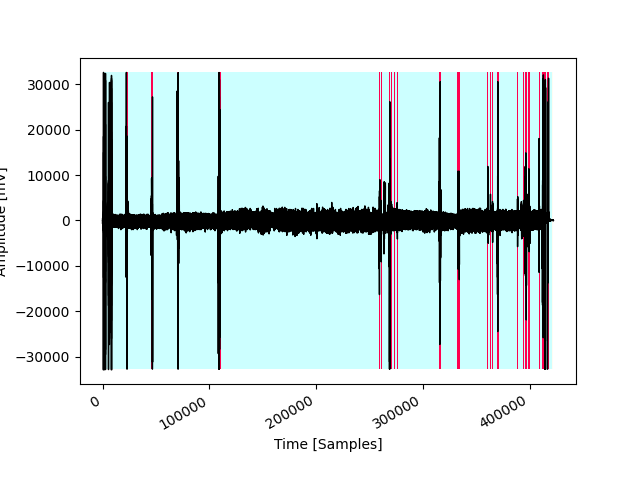
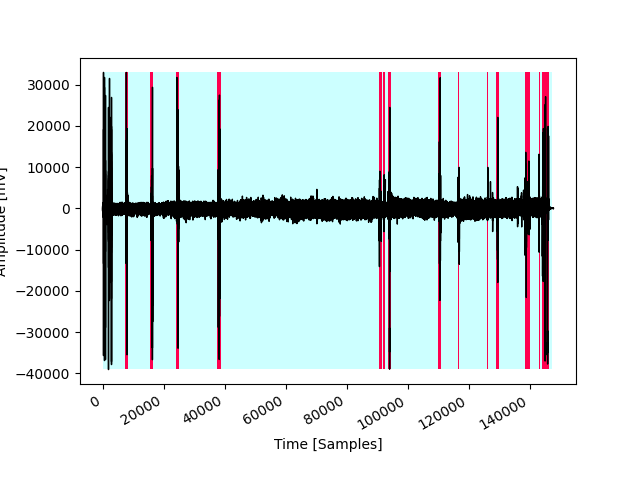
calculating number of windows

diff --git a/src/main.py b/src/main.py
@@ -23,8 +23,8 @@ from detect_peaks import detect_peaks
 
 print('\nstart processing ...')
 
-file = '../data/BCG/fixed_bcg.csv'
-reference_rr_file = '../data/BCG/Reference/RR/02_20231103_RR.csv'
+file = 'data/BCG/fixed_bcg.csv'
+reference_rr_file = 'data/RR/02_20231103_RR.csv'
 
 if file.endswith(".csv"):
     fileName = os.path.join(file)
@@ -34,11 +34,11 @@ if file.endswith(".csv"):
         print("\U0001F4C5 BCG Start:", pd.to_datetime(utc_time.min(), unit='ms'))
         print("\U0001F4C5 BCG End  :", pd.to_datetime(utc_time.max(), unit='ms'))
         data_stream = rawData["BCG"].values
-        fs = int(rawData["fs"].iloc[0])
+        fs = 50
         print("✅ Loaded samples:", len(data_stream))
         print("✅ Sampling frequency (Hz):", fs)
 
-        # Load ECG-derived reference HR
+        # Load ECG-declived reference HR
         rr_data = pd.read_csv(reference_rr_file)
         rr_data['Timestamp'] = pd.to_datetime(rr_data['Timestamp'])
 
@@ -53,10 +53,18 @@ if file.endswith(".csv"):
         mask_bcg = (utc_time >= start_time) & (utc_time <= end_time)
         mask_rr = (rr_data['Timestamp'] >= start_time) & (rr_data['Timestamp'] <= end_time)
 
+
         synced_bcg = data_stream[mask_bcg]
         synced_utc = utc_time[mask_bcg]
         synced_rr = rr_data.loc[mask_rr]
         reference_hr = synced_rr['Heart Rate'].replace(0, np.nan).dropna().to_numpy()
+
+        n_samples_50hz = int((end_time - start_time) / 1000 * fs)
+        synced_bcg_resampled = resample(synced_bcg, n_samples_50hz)
+        N = len(synced_bcg_resampled)
+
+        duration_sec = (synced_utc[-1] - synced_utc[0]) / 1000.0  # in seconds
+        resampled_time = np.linspace(start_time, end_time, n_samples_50hz)
 
         print("\U0001F552 Sync window (ms):", start_time, "→", end_time)
         print("\U0001F4CA Synced BCG samples:", len(synced_bcg))
@@ -64,7 +72,7 @@ if file.endswith(".csv"):
 
         # Denoise + Remove Movement Artifacts
         start_point, end_point, window_shift = 0, 500, 500
-        clean_bcg, clean_time = detect_patterns(start_point, end_point, window_shift, synced_bcg, synced_utc, plot=1)
+        clean_bcg, clean_time = detect_patterns(start_point, end_point, window_shift, synced_bcg_resampled, resampled_time, plot=1)
 
         # Filter for HR and respiratory components
         movement = band_pass_filtering(clean_bcg, fs, "bcg")
@@ -75,7 +83,18 @@ if file.endswith(".csv"):
         # Wavelet transform
         w = modwt(movement, 'bior3.9', 4)
         dc = modwtmra(w, 'bior3.9')
-        wavelet_cycle = dc[4]
+        wavelet_cycle = dc[4]  # Level 4 smooth
+        
+
+        #plot wavelet cycle
+        plt.figure()
+        plt.plot(clean_time, wavelet_cycle, color='k', lw=2)
+        plt.title('Wavelet Cycle')
+        plt.xlabel('Time [ms]')
+        plt.ylabel('Amplitude')
+        #save figure
+        plt.savefig('results/wavelet_cycle.png')
+
 
         # Peak detection from filtered BCG
         peaks = detect_peaks(wavelet_cycle, mpd=fs//2)
@@ -109,16 +128,17 @@ if file.endswith(".csv"):
         plt.title("Bland-Altman Plot")
         plt.xlabel("Mean HR")
         plt.ylabel("Difference (Estimated - Reference)")
-        plt.savefig('../results/bland_altman.png')
+        plt.savefig('results/bland_altman.png')
 
         # Pearson
         r, _ = pearsonr(reference_hr, estimated_hr)
+        print(f"r value is {r}")
         plt.figure()
         plt.scatter(reference_hr, estimated_hr)
         plt.title(f"Pearson Correlation (r={r:.2f})")
         plt.xlabel("Reference HR")
         plt.ylabel("Estimated HR")
-        plt.savefig('../results/pearson_correlation.png')
+        plt.savefig('results/pearson_correlation.png')
 
         # Vitals
         t1, t2, window_length, window_shift = 0, 500, 500, 500
@@ -135,10 +155,13 @@ if file.endswith(".csv"):
         print('Maximum breathing : ', np.around(np.max(breath_beats)))
         print('Average breathing : ', np.around(np.mean(breath_beats)))
 
-        events = apnea_events(breathing, clean_time, thresh=0.3)
+        # events = apnea_events(breathing, clean_time, thresh=0.3)
 
         # Visualization
         t1, t2 = 2500, 5000
         data_subplot(clean_bcg, movement, breathing, wavelet_cycle, t1, t2)
+        
+        num_windows = (N - start_point) // window_shift
+        print(f"Signal length: {N}, Expected number of windows: {num_windows}")
 
     print('\nEnd processing ...')

diff --git a/src/detect_body_movements.py b/src/detect_body_movements.py
@@ -93,7 +93,7 @@ def detect_patterns(pt1, pt2, win_size, data, time, plot):
         pt1 = pt2
         pt2 += win_size
 
-    plt.savefig('../results/rawData.png')
+    plt.savefig('results/rawData.png')
 
     # Remove Body Movements and bed-empty activities
     ind2remove = np.sort(np.append(np.where(event_flags == 3), np.where(event_flags == 2)), axis=None)

diff --git a/src/data_subplot.py b/src/data_subplot.py
@@ -41,4 +41,4 @@ def data_subplot(raw_data, movement, breathing, dc, t1, t2):
     ax3.legend(bbox_to_anchor=(1, 1.3), loc='center right')
     plt.subplots_adjust(hspace=0.8)
     
-    plt.savefig('../results/vitals.png')
+    plt.savefig('results/vitals.png')
